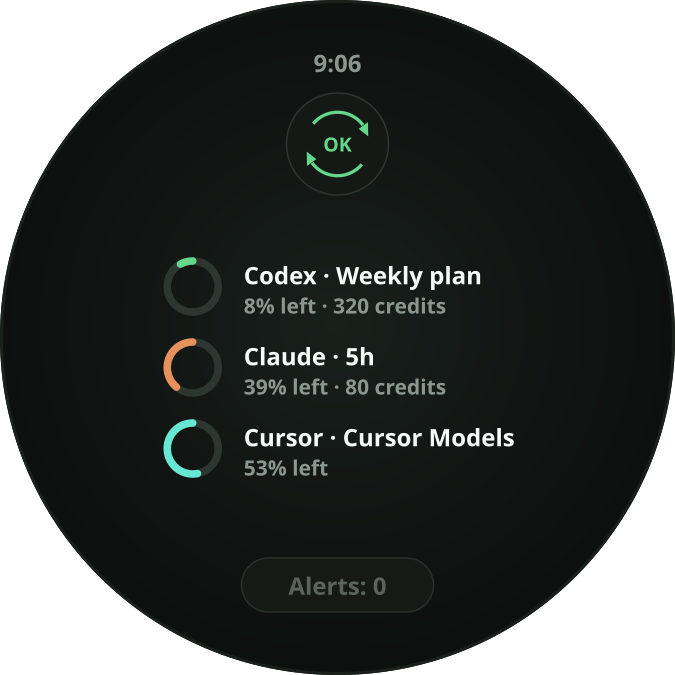
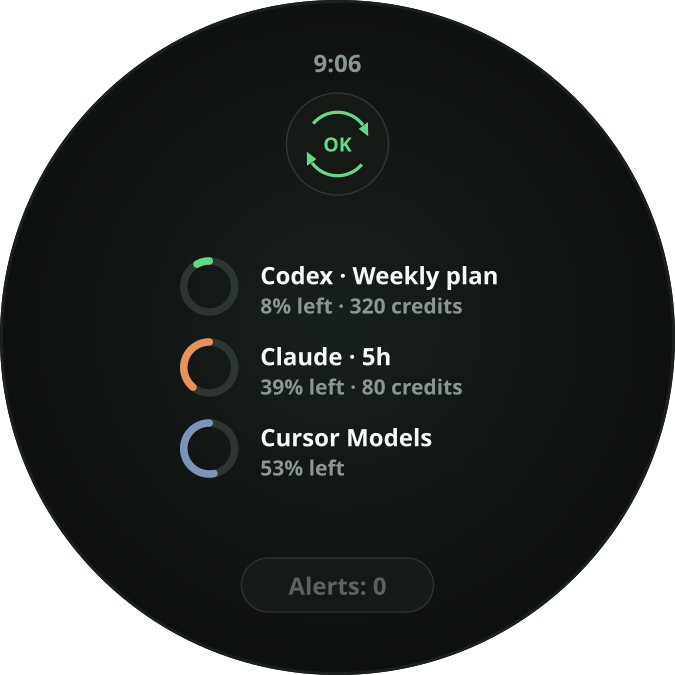
chore(design): paint the Cursor pools on the review boards

Changed region(s): [[0.2178, 0.6222, 0.7778, 0.7156], [0.2178, 0.3733, 0.7467, 0.4667], [0.2178, 0.4978, 0.6844, 0.5911]]

diff --git a/docs/product/WEAR_GLANCE_DESIGN.md b/docs/product/WEAR_GLANCE_DESIGN.md
@@ -33,7 +33,7 @@ map face colors to providers.
   (●)  Claude · 5h
        39% left · 80 credits
 
-  (●)  Cursor · Cursor Models
+  (●)  Cursor Models
        53% left
 
       [ Alerts: 0 ]          ← pill button; disabled when N = 0
@@ -44,7 +44,9 @@ Rules:
 - One row = one selected ring metric from the watch summary (same set as the face).
 - Row order = **tightest remaining first** (highest `usedPercent` first; equal percents break
   ties by credit request-runway from internal costs — credits shown, not request counts),
-  matching the face.
+  matching the face. A pair is one band, so its two rows stay **together**, own pool first: the
+  band takes its place in the order and the second pool follows it, wherever its own percent
+  would have landed alone.
 - Mini arc = **remaining** (`100 - usedPercent`), family color from the face palette;
   same clockwise-from-12 melt as the watch face (usage gap opens at 12).
 - Primary line: family/provider + metric label. Codex keeps `Weekly plan`; Cursor Pro+/Ultra
@@ -144,6 +146,7 @@ xdg-open apps/wear_android/design/preview-glance-legend-3.png
 |------|---------|
 | `glance-legend-3.svg` | **Primary** — three providers, `OK` refresh enabled, Alerts disabled |
 | `glance-legend-1.svg` | Single provider with credits |
+| `glance-legend-pair.svg` | A Cursor plan's two pools — two rows, two colours, one band on the face |
 | `glance-legend-budget.svg` | Plan rows (with credits) + a connection budget row (family color, no credits) |
 | `glance-legend-stale.svg` | `!OK` + detail `Stale`, refresh enabled, Alerts active |
 | `glance-legend-cadence.svg` | Healthy `OK` but refresh **disabled** (cadence cooldown; no detail) |

diff --git a/docs/DESIGN_ASSETS.md b/docs/DESIGN_ASSETS.md
@@ -88,7 +88,7 @@ remaining arcs melt clockwise from 12). Primary preview:
 Wear **app** Glance legend (**baseline locked 2026-07-26**, not the face):
 `tools/render-wear-glance-designs.mjs` → `glance-legend-*.svg` /
 `preview-glance-legend-*.png`. Primary preview:
-`apps/wear_android/design/preview-glance-legend-3.png`. Variants: `3`, `1`, `budget`,
+`apps/wear_android/design/preview-glance-legend-3.png`. Variants: `3`, `1`, `pair`, `budget`,
 `stale`, `cadence`, `rate-limit`, `empty`, `exhausted`.
 See [`product/WEAR_GLANCE_DESIGN.md`](product/WEAR_GLANCE_DESIGN.md).
 

diff --git a/apps/wear_android/design/README.md b/apps/wear_android/design/README.md
@@ -37,6 +37,6 @@ convert -background none -density 144 \
 xdg-open apps/wear_android/design/preview-glance-legend-3.png
 ```
 
-Variants: `glance-legend-3`, `glance-legend-1`, `glance-legend-budget`,
-`glance-legend-stale`, `glance-legend-cadence`, `glance-legend-rate-limit`,
-`glance-legend-empty`, `glance-legend-exhausted`.
+Variants: `glance-legend-3`, `glance-legend-1`, `glance-legend-pair`,
+`glance-legend-budget`, `glance-legend-stale`, `glance-legend-cadence`,
+`glance-legend-rate-limit`, `glance-legend-empty`, `glance-legend-exhausted`.
